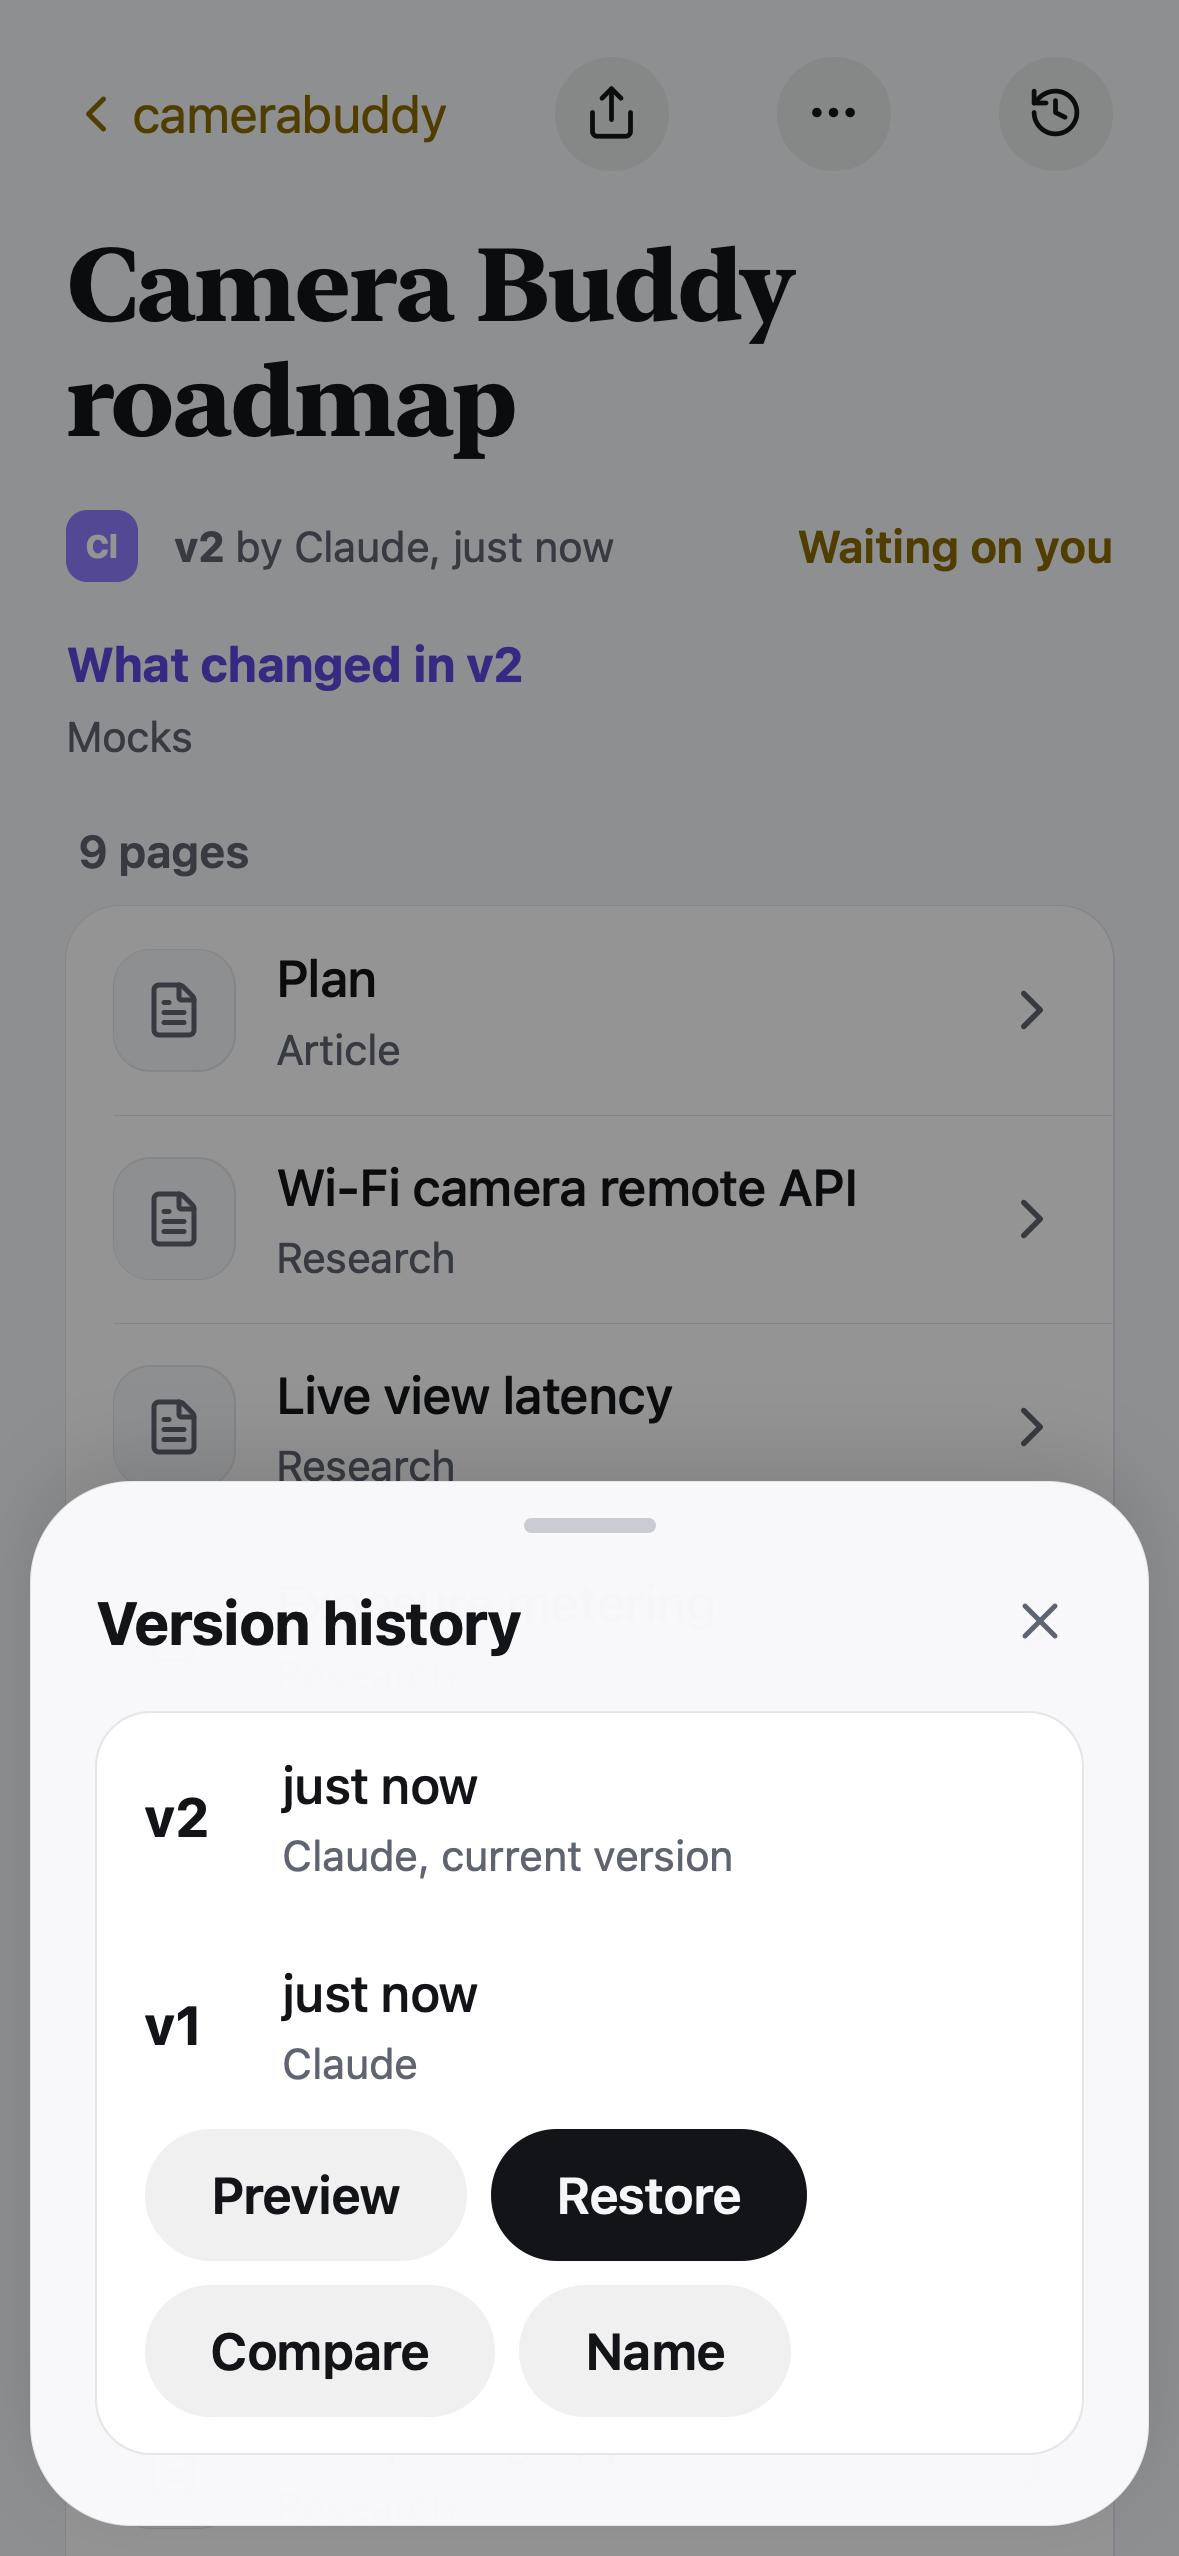
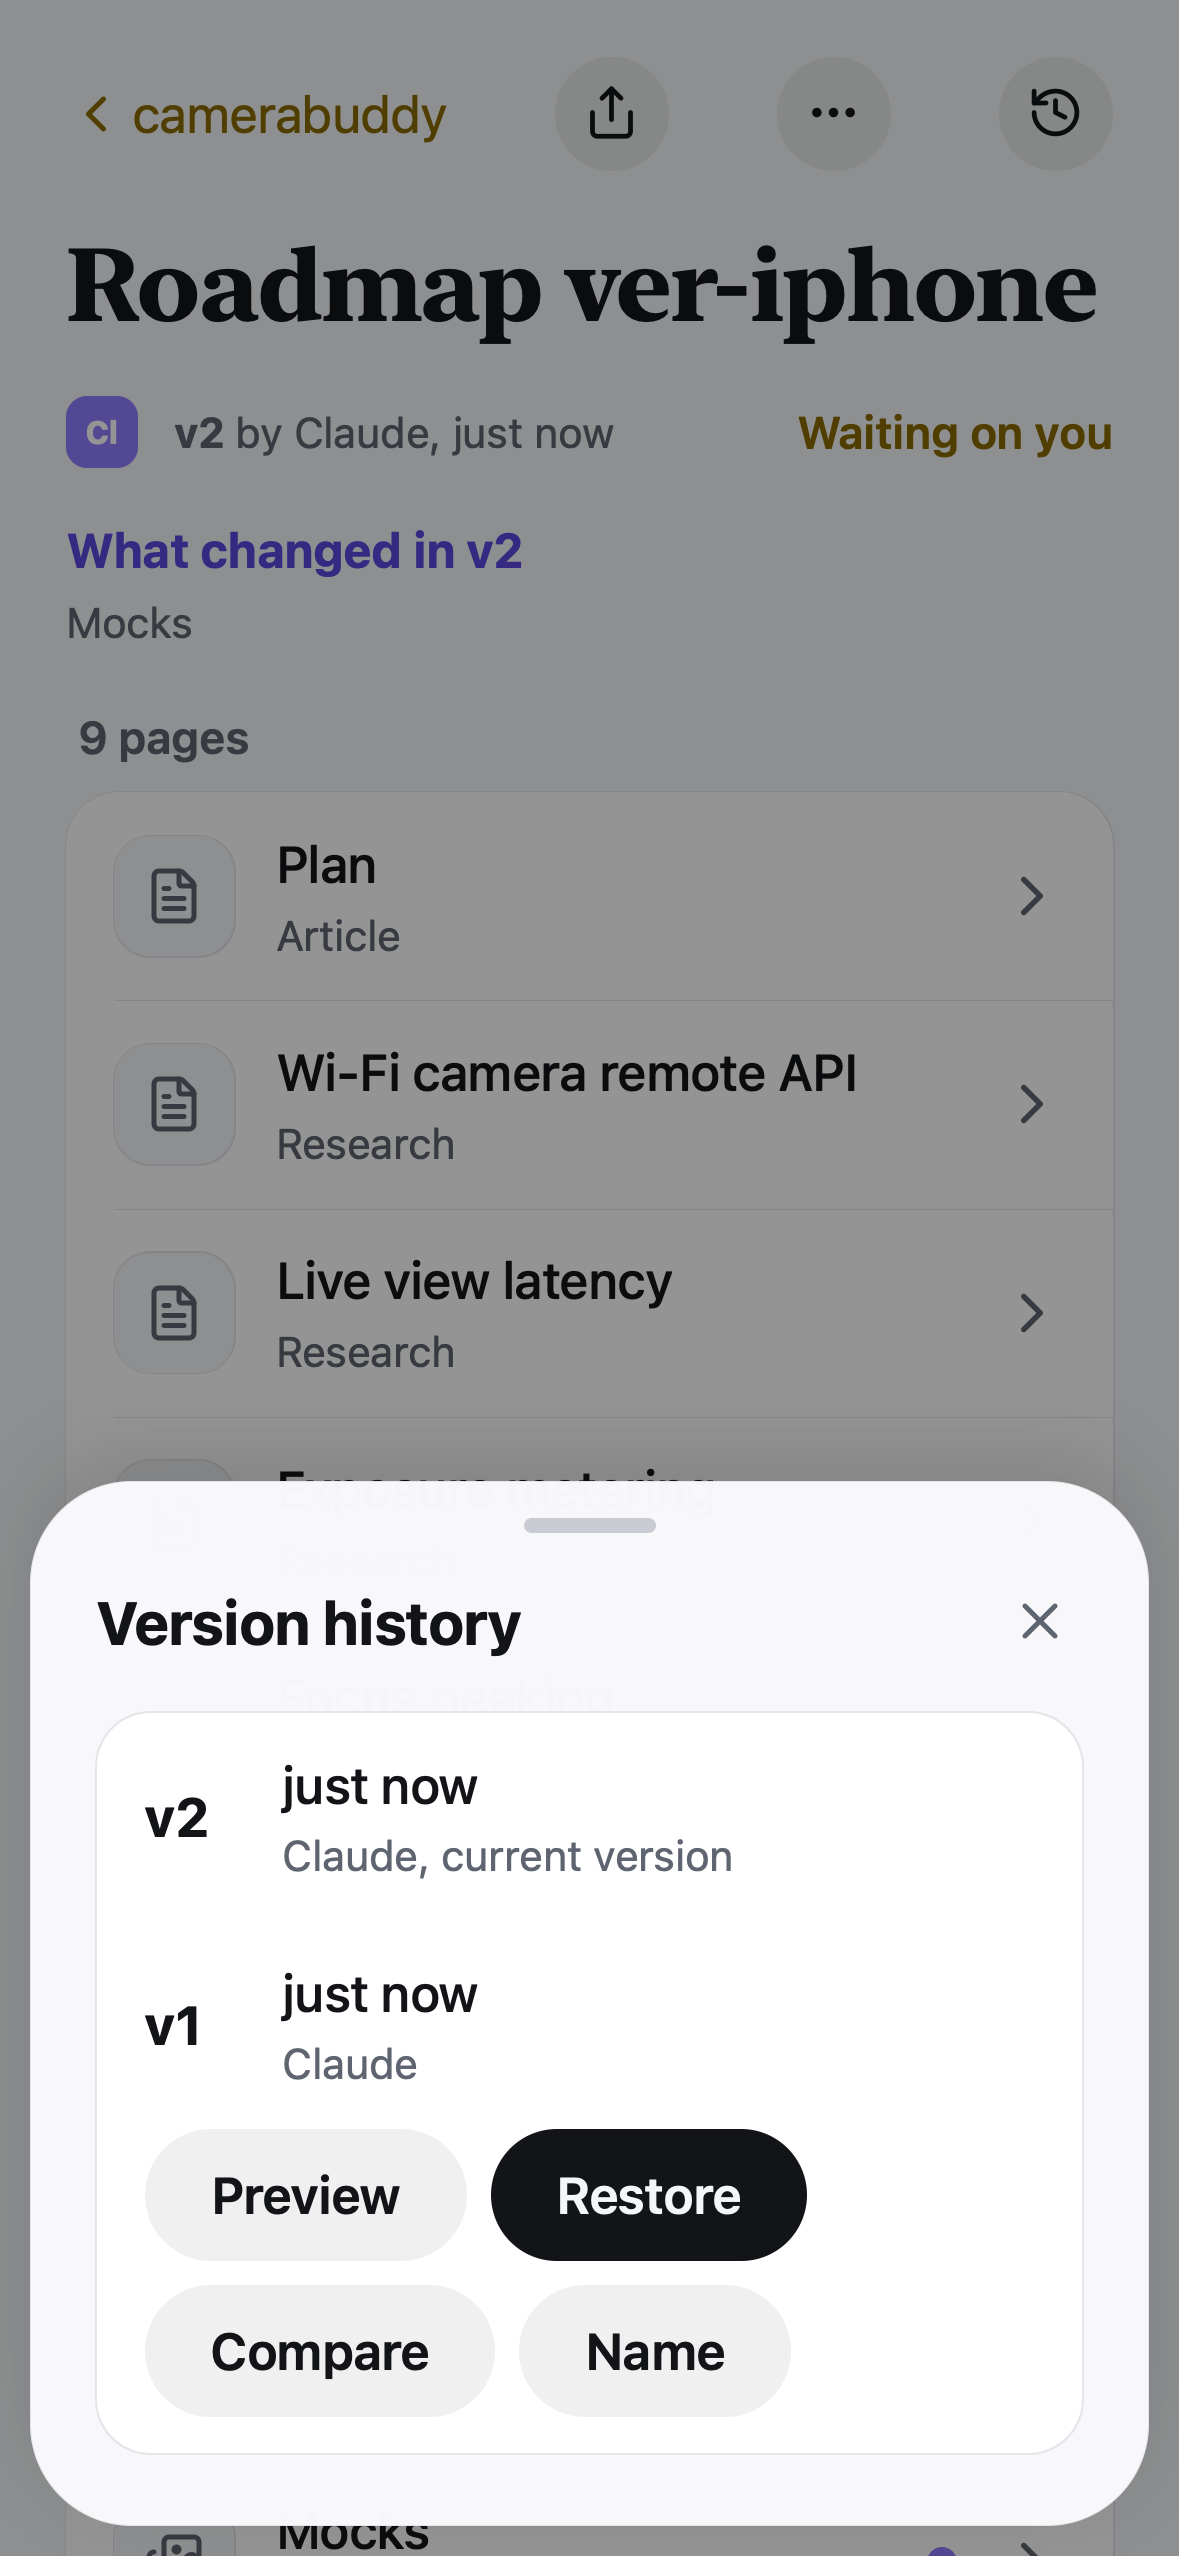
Keep the iPhone and desktop runs out of each other's Recently deleted

diff --git a/apps/viewer/e2e/lifecycle.e2e.ts b/apps/viewer/e2e/lifecycle.e2e.ts
@@ -45,16 +45,17 @@ test("delete, the deleted link, Recently deleted and restore", async ({ page }, 
   await shot(page, info.project.name, "07-6-deleted-link");
 
   await page.goto("/settings/deleted");
-  await expect(page.getByText("30 days left").first()).toBeVisible();
+  const row = page.locator(".li").filter({ hasText: `Roadmap ${slug}` });
+  await expect(row.getByText("30 days left")).toBeVisible();
   await shot(page, info.project.name, "07-3-recently-deleted");
   await page.getByRole("button", { name: "Delete all now" }).click();
   await expect(page.getByRole("dialog").getByText("This can't be undone.")).toBeVisible();
   await page.keyboard.press("Escape");
   await expect(page.getByRole("dialog")).toHaveCount(0);
-  await page.getByRole("button", { name: "Restore" }).first().click();
-  await expect(page.getByRole("button", { name: "Restore" })).toHaveCount(0);
+  await row.getByRole("button", { name: "Restore" }).click();
+  await expect(row).toHaveCount(0);
   await page.goto(`/camerabuddy/${slug}`);
-  await expect(page.getByRole("heading", { level: 1 })).toHaveText("Camera Buddy roadmap");
+  await expect(page.getByRole("heading", { level: 1 })).toHaveText(`Roadmap ${slug}`);
 });
 
 test("version history: preview, name, restore and compare", async ({ page }, info) => {

diff --git a/apps/viewer/e2e/seed.ts b/apps/viewer/e2e/seed.ts
@@ -43,7 +43,12 @@ export function publishCopy(slug: string, token: string, twice = false) {
   const dir = mkdtempSync(join(tmpdir(), "artifacts-e2e-"));
   cpSync(fixture, dir, { recursive: true });
   const manifest = join(dir, "artifact.json");
-  writeFileSync(manifest, readFileSync(manifest, "utf8").replace('"slug": "roadmap"', `"slug": "${slug}"`));
+  writeFileSync(
+    manifest,
+    readFileSync(manifest, "utf8")
+      .replace('"slug": "roadmap"', `"slug": "${slug}"`)
+      .replace('"title": "Camera Buddy roadmap"', `"title": "Roadmap ${slug}"`),
+  );
   const publish = () =>
     execFileSync("bun", [cli, "publish", "--json"], { cwd: dir, env: envFor(dir, token), stdio: "pipe" });
   publish();

diff --git a/docs/implementation/progress.md b/docs/implementation/progress.md
@@ -15,7 +15,7 @@ A fresh agent can resume from this file alone. Read [HANDOFF-M2-M11.md](HANDOFF-
 | M6 People and sharing | `m6-people` | `d79e2a1` | green |
 | M7 Lifecycle | `m7-lifecycle` | `7c59d9e` | green |
 | M8 Distribution | `m8-distribution` | `9356dac` | green |
-| M9 Micro apps I | `m9-micro-apps` | in progress | |
+| M9 Micro apps I | `m9-micro-apps` | see git log | see below |
 | M10–M11 | not started | | |
 
 ## Verified
